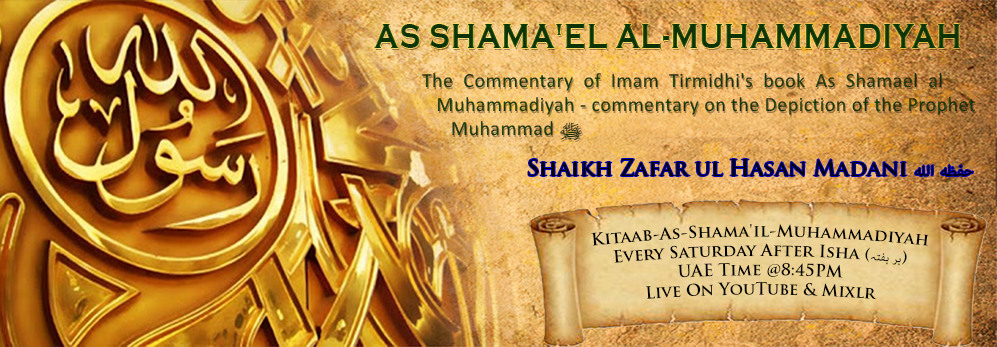
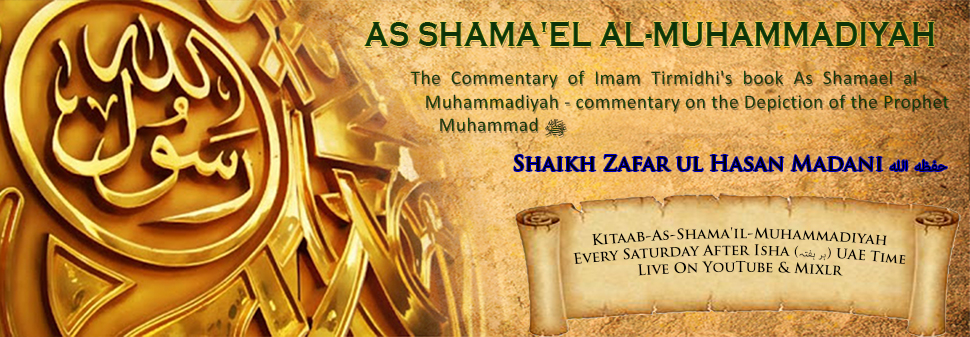
commit

diff --git a/src/components/Navbar.js b/src/components/Navbar.js
@@ -1,12 +1,12 @@
 import React, { Component } from "react";
 import { Link } from "react-router-dom";
-import SheikhName from "../img/sheikhname.jpg";
-import QuranHadith1Arabic from "../img/Quran&Hadith1Arabic.jpg";
-import QuranHadith1Urdu from "../img/Quran&Hadith1Urdu.jpg";
-import QuranHadith1English from "../img/Quran&Hadith1English.jpg";
-import QuranHadith2Arabic from "../img/Quran&Hadith2Arabic.jpg";
-import QuranHadith2Urdu from "../img/Quran&Hadith2Urdu.jpg";
-import QuranHadith2English from "../img/Quran&Hadith2English.jpg";
+import SheikhName from "../img/sheikhname.png";
+import QuranHadith1Arabic from "../img/Quran&Hadith1Arabic.png";
+import QuranHadith1Urdu from "../img/Quran&Hadith1Urdu.png";
+import QuranHadith1English from "../img/Quran&Hadith1English.png";
+import QuranHadith2Arabic from "../img/Quran&Hadith2Arabic.png";
+import QuranHadith2Urdu from "../img/Quran&Hadith2Urdu.png";
+import QuranHadith2English from "../img/Quran&Hadith2English.png";
 
 export default class Navbar extends Component {
   render() {
@@ -15,7 +15,7 @@ export default class Navbar extends Component {
         <section className="heading-section">
           <div className="row">
             <div className="container">
-              <div className="col-md-7 ">
+              <div className="col-xl-7 col-md-6 col-sm-7">
                 <div
                   id="carouselExampleFade"
                   class="carousel slide carousel-fade"
@@ -26,20 +26,20 @@ export default class Navbar extends Component {
                     <div class="carousel-item active">
                       <img
                         src={QuranHadith1Arabic}
-                        className="ayah w-100"
+                        className="ayah"
                         alt="ahle hadith"
                       />
                     </div>
                     <div class="carousel-item ">
                       <img
                         src={QuranHadith1Urdu}
-                        className="ayah w-100"
+                        className="ayah"
                         alt="salafi"
                       />
                     </div>
                     <div class="carousel-item">
                       <img
-                        className="ayah w-100"
+                        className="ayah"
                         src={QuranHadith1English}
                         alt="salafi"
                       />
@@ -47,20 +47,20 @@ export default class Navbar extends Component {
                     <div class="carousel-item">
                       <img
                         src={QuranHadith2Arabic}
-                        className="ayah w-100"
+                        className="ayah"
                         alt="manhaj salaf"
                       />
                     </div>
                     <div class="carousel-item ">
                       <img
                         src={QuranHadith2Urdu}
-                        className="ayah w-100"
+                        className="ayah"
                         alt="salafi"
                       />
                     </div>
                     <div class="carousel-item">
                       <img
-                        className="ayah w-100"
+                        className="ayah"
                         src={QuranHadith2English}
                         alt="salafi"
                       />
@@ -92,7 +92,7 @@ export default class Navbar extends Component {
                   </a>
                 </div>
               </div>
-              <div className=" col-md-5 d-flex justify-content-start">
+              <div className="col-xl-5 col-md-6 col-xs-12 col-sm-5 d-flex justify-content-start d-sm-flex justify-content-center">
                 <div>
                   <img
                     className="img-fluid scholar"

diff --git a/src/components/Home.js b/src/components/Home.js
@@ -42,9 +42,7 @@ export default class Home extends Component {
         {/*Heading name and Navigation bar*/}
         <Navbar />
         {/*Banner section*/}
-        <div className="carousel-section">
-          <div className="row">
-            <section className="banner-section">
+        <div className="carousel-section my-0">
               <div
                 id="carouselExampleIndicators"
                 class="carousel slide carousel-fade"
@@ -80,17 +78,13 @@ export default class Home extends Component {
                       src={Sunday}
                       className="img-fld"
                       alt="ahle hadith"
-                      height="400px"
-                      width="100%"
                     />
                   </div>
-                  <div class="carousel-item ">
+                  <div class="carousel-item">
                     <img
                       src={monday}
                       className="img-fld"
                       alt="zafar ul hasan madani"
-                      height="400px"
-                      width="100%"
                     />
                   </div>
                   <div class="carousel-item">
@@ -98,8 +92,6 @@ export default class Home extends Component {
                       src={Baqarah}
                       className="img-fld"
                       alt="surah baqarah"
-                      height="400px"
-                      width="100%"
                     />
                   </div>
                   <div class="carousel-item ">
@@ -107,8 +99,6 @@ export default class Home extends Component {
                       src={wednesday}
                       className="img-fld"
                       alt="zafar ul hasan madani"
-                      height="400px"
-                      width="100%"
                     />
                   </div>
                   <div class="carousel-item ">
@@ -116,8 +106,6 @@ export default class Home extends Component {
                       src={saturday}
                       className="img-fld"
                       alt="zafar ul hasan madani"
-                      height="400px"
-                      width="100%"
                     />
                   </div>
                 </div>
@@ -144,9 +132,7 @@ export default class Home extends Component {
                   ></span>
                 </a>
               </div>
-            </section>
           </div>
-        </div>
 
         {/*Calendar and Mixlr section*/}
         <div className="container">

diff --git a/src/App.css b/src/App.css
@@ -521,18 +521,17 @@ table.table-bordered {
     display: none;
   }
   .ayah {
-    display: none;
+    width: 100%;
   }
   .scholar {
-    width: 700px;
-    align-items: stretch;
+    width: 650px;
   }
   .tableButton {
     height: 70px;
   }
 }
 
-@media (max-width: 767.98px) {
+@media (min-width: 768px) {
   .heading-name {
     font-size: 25px;
   }
@@ -574,9 +573,6 @@ table.table-bordered {
   .paddingVideo {
     padding-left: 0%;
   }
-  .ayah {
-    display: none;
-  }
   .marginJummahPhone {
     margin-left: 34px;
   }
@@ -602,6 +598,14 @@ table.table-bordered {
   .carousel-section {
     width: 100%;
     padding-left: 0px;
+  }
+  .img-fld {
+    width: 100%;
+  }
+  .scholar {
+    display: flex;
+  align-items: center;
+  justify-content: center;
   }
 }
 
@@ -713,14 +717,15 @@ table.table-bordered {
     height: 75vh;
     width: 100%;
   }
+  .carousel-section {
+    width: 100%;
+    padding-left: 0px;
+  }
   .carousel-control-prev-icon {
     display: none;
   }
   .carousel-control-next-icon {
     display: none;
-  }
-  .carousel-section {
-    width: 100%;
   }
   .mobile-first {
     vertical-align: center;
